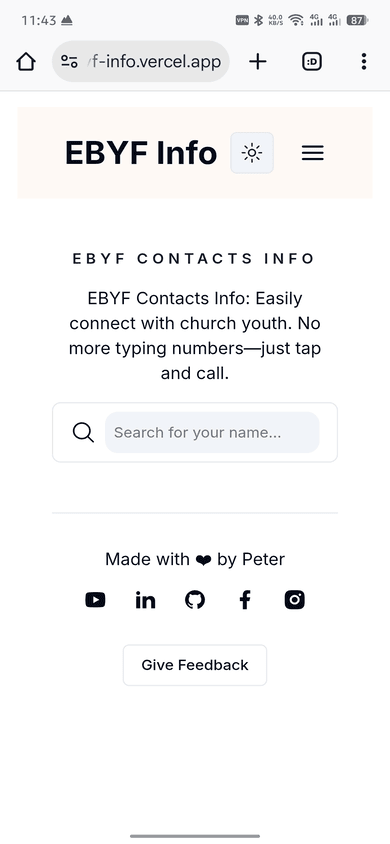
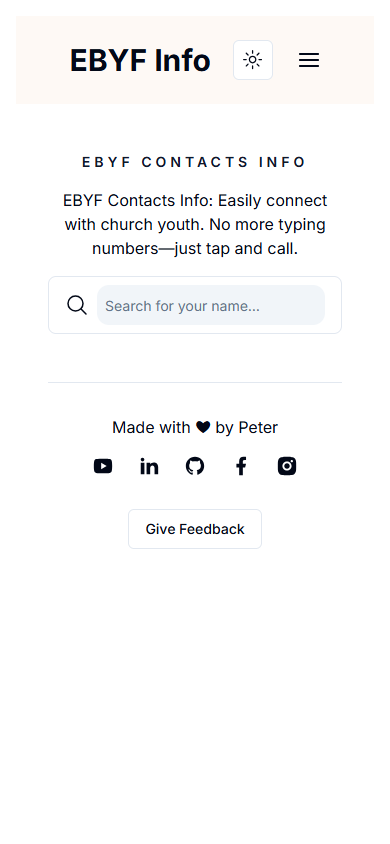
refactor: extract protocol handling into reusable useProtocolHandler hook
- Extracted protocol navigation logic from ProtocolHandler component into a new custom hook
- Updated app/contacts/page.tsx, app/makaite/page.tsx, and app/page.tsx to use the hook
- Simplified ProtocolHandler.tsx to only call the hook
- Fixed Header shadow styling for home page
- Enhanced protocol actions to support navigation to contacts, makaite, and home based on URL params

diff --git a/hooks/useProtocolHandler.ts b/hooks/useProtocolHandler.ts
@@ -1,0 +1,41 @@
+import { useSearchParams, useRouter } from "next/navigation";
+import { useEffect } from "react";
+
+export function useProtocolHandler() {
+  const searchParams = useSearchParams();
+  const router = useRouter();
+
+  useEffect(() => {
+    const url = searchParams.get("url");
+    if (url && url.startsWith("web+ebyf:")) {
+      const protocolUrl = url;
+      const [, action] = protocolUrl.split(":");
+
+      if (action === "contacts") {
+        // Navigate to contacts page
+        if (window.location.pathname !== "/contacts") {
+          router.push("/contacts");
+        }
+      } else if (action === "makaite") {
+        // Navigate to makaite page
+        if (window.location.pathname !== "/makaite") {
+          router.push("/makaite");
+        }
+      } else if (action === "" || action === undefined) {
+        // No action, stay on root or current page
+        // Optionally navigate to home
+        if (window.location.pathname !== "/") {
+          router.push("/");
+        }
+      } else {
+        // Unknown action, navigate to root
+        router.push("/");
+      }
+
+      // Remove the url param to prevent re-triggering
+      const newUrl = new URL(window.location.href);
+      newUrl.searchParams.delete("url");
+      router.replace(newUrl.pathname + newUrl.search);
+    }
+  }, [searchParams, router]);
+}

diff --git a/components/ProtocolHandler.tsx b/components/ProtocolHandler.tsx
@@ -1,30 +1,8 @@
 "use client";
 
-import { useSearchParams, useRouter } from "next/navigation";
-import { useEffect } from "react";
+import { useProtocolHandler } from "@/hooks/useProtocolHandler";
 
 export default function ProtocolHandler() {
-  const searchParams = useSearchParams();
-  const router = useRouter();
-
-  useEffect(() => {
-    const url = searchParams.get("url");
-    if (url && url.startsWith("web+ebyf:")) {
-      const protocolUrl = url;
-      const [, action] = protocolUrl.split(":");
-
-      if (action.startsWith("member-")) {
-        const memberId = action.replace("member-", "");
-        // Navigate to contacts page
-        router.push("/contacts");
-      }
-
-      // Remove the url param to prevent re-triggering
-      const newUrl = new URL(window.location.href);
-      newUrl.searchParams.delete("url");
-      router.replace(newUrl.pathname + newUrl.search);
-    }
-  }, [searchParams, router]);
-
+  useProtocolHandler();
   return null; // This component doesn't render anything
 }

diff --git a/app/contacts/page.tsx b/app/contacts/page.tsx
@@ -6,6 +6,7 @@ import { Skeleton } from "@/components/ui/skeleton";
 import PeriodDisplay from "@/components/periodShow";
 import { filterLocalMembersByRole } from "@/utils/filterLocalMembersByRole";
 import { getFilterByTab } from "@/utils/roleFilters";
+import { useProtocolHandler } from "@/hooks/useProtocolHandler";
 
 import { User } from "@/types";
 
@@ -23,6 +24,8 @@ export default function CombinedContactsPage() {
   const [activeTab, setActiveTab] = useState<Tab>(TABS[0]);
   const [users, setUsers] = useState<User[]>([]);
   const [usersLoading, setUsersLoading] = useState<boolean>(false);
+
+  useProtocolHandler();
 
   useEffect(() => {
     const fetchFilteredUsers = async () => {

diff --git a/app/makaite/page.tsx b/app/makaite/page.tsx
@@ -4,11 +4,14 @@ import { useEffect, useState } from "react";
 import { Skeleton } from "@/components/ui/skeleton";
 import UserItem from "@/components/user-item";
 import { filterLocalMembersByRole } from "@/utils/filterLocalMembersByRole";
+import { useProtocolHandler } from "@/hooks/useProtocolHandler";
 import { User } from "@/types";
 
 function MakaitePage() {
   const [usersLoading, setUsersLoading] = useState<boolean>(true);
   const [filteredUsers, setFilteredUsers] = useState<User[]>([]);
+
+  useProtocolHandler();
 
   useEffect(() => {
     const fetchAndFilterUsers = async () => {

diff --git a/components/layout/Header.tsx b/components/layout/Header.tsx
@@ -32,7 +32,7 @@ const Header = () => {
         header
           ? "py-4 bg-secondary shadow-lg"
           : "py-6 dark:bg-transparent "
-      } sticky top-2 z-30 transition-all ${pathname === "/" && "bg-[#fef9f5]"}`}
+      } sticky top-2 z-30 transition-all ${pathname === "/" && "shadow-lg"}`}
     >
       <div className="container mx-auto px-4 sm:px-10 lg:px-16">
         <div className="flex justify-between items-center">

diff --git a/app/page.tsx b/app/page.tsx
@@ -1,8 +1,11 @@
 "use client";
 
 import Hero from "@/components/layout/Hero";
+import { useProtocolHandler } from "@/hooks/useProtocolHandler";
 
 export default function Home() {
+  useProtocolHandler();
+
   return (
     <>
       <Hero />
